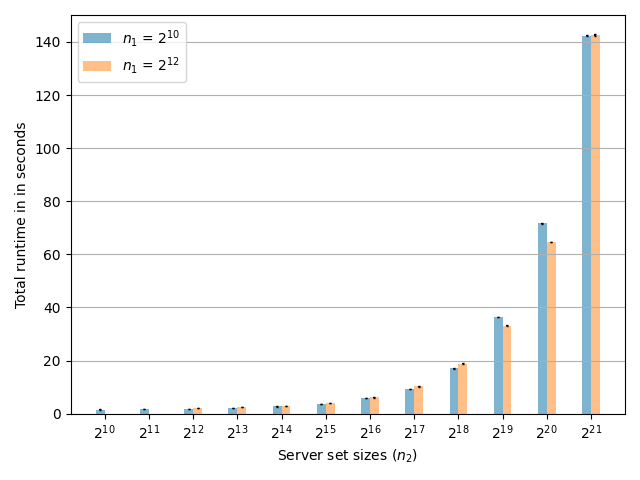
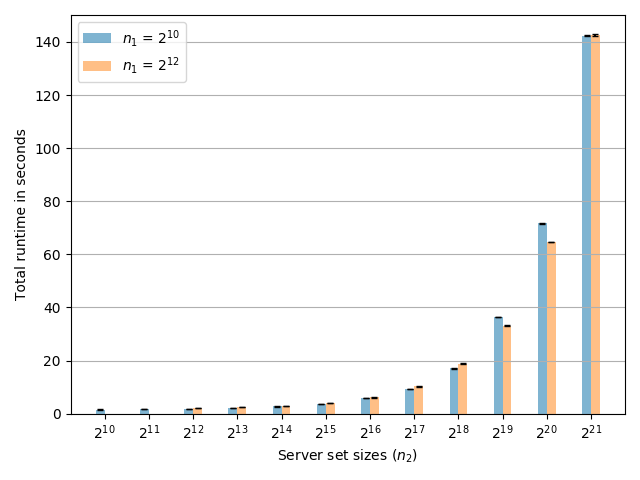
stuff

Changed region(s): [[0.0, 0.25, 0.0625, 0.625], [0.9062, 0.0625, 0.9375, 0.0938], [0.5625, 0.8125, 0.5938, 0.8438]]

diff --git a/plot_unbalanced.py b/plot_unbalanced.py
@@ -61,7 +61,7 @@ def plot_total_time(data):
     fig, ax = plt.subplots()
     client = ax.bar(x_pos, client_means, yerr=client_stds, color=tableau_c10[1], align='center', alpha=0.5,
            ecolor='black', capsize=5)
-    ax.set_ylabel(f"Total time in in seconds")
+    ax.set_ylabel(f"Total time in seconds")
     ax.set_xticks(x_pos)
     ax.set_xticklabels(xticks_to_potencies_label(set_sizes))
     ax.set_title(
@@ -89,13 +89,17 @@ def plot_total_time_combined(data10,data12):
     # client = ax.bar(x_pos, client_means, yerr=client_sd_10, color=tableau_c10[1], align='center', alpha=0.5,
     #                 ecolor='black', capsize=5)
     client_10 = ax.bar(x_pos_10-0.1, client_means_10, yerr=client_sd_10, width=0.2,
-                       color=tableau_c10[0], align='center', alpha=0.5, ecolor='black', capsize=1)
+                       color=tableau_c10[0], align='center', alpha=0.5, ecolor='black', capsize=2)
     client_12 = ax.bar(x_pos_12+0.1+2, client_means_12,yerr=client_sd_12, width=0.2,
-                       color=tableau_c10[1], align='center', alpha=0.5, ecolor='black', capsize=1)
+                       color=tableau_c10[1], align='center', alpha=0.5, ecolor='black', capsize=2)
 
-    ax.set_ylabel(f"Total runtime in in seconds")
+    ax.set_ylabel(f"Total runtime in seconds")
     ax.set_xticks(x_pos_10)
     ax.set_xticklabels(xticks_to_potencies_label(set_sizes_10))
+    # for i in range(1,len(client_means_10)):
+    #     print(client_means_10[i]/client_means_10[0])
+    # for i in range(1, len(client_means_12)):
+    #     print(client_means_12[i]/client_means_12[0])
     print(client_means_10)
     print(client_means_12)
     # ax.set_title(
@@ -153,8 +157,8 @@ def plot_total_data_stacked_combined(data10,data12):
     # client_r_stds = client_r_stds/1e9
     # client_s_stds = client_s_stds/1e9
 
-    print(client_r_means_10)
-    print(client_r_means_12)
+    print(client_r_means_10+client_s_means_10)
+    print(client_r_means_12+client_s_means_12)
     # Add a table at the bottom of the axes
     client_r_10 = ax.bar(x_pos_10-0.1, client_r_means_10, width=0.2,
                       color=tableau_c10[0], align='center', alpha=0.5)
@@ -517,9 +521,9 @@ def plot_psi_types_dt(data):
         data, "total_d_rs", rs='s', parameter='psi')
     client_means = client_means/1e3
     client_sd = client_sd/1e3
+    print(client_r_means[7]+client_s_means[7])
     client_r_means = client_r_means/1e6
     client_s_means = client_s_means/1e6
-
     x_pos = np.array(set_sizes)
     fig, ax1 = plt.subplots()
 
@@ -533,14 +537,14 @@ def plot_psi_types_dt(data):
     client_r = ax1.bar(x_pos-0.1, client_r_means,width=0.2, color=tableau_c10[0], align='center', alpha=0.5)
     client_s = ax1.bar(x_pos-0.1, client_s_means, width=0.2, color=tableau_c10[4], align='center', alpha=0.5, bottom=client_r_means)
     ax2 = ax1.twinx()
-    ax2.set_ylabel('runtime (seconds)', color=tableau_c10[7])
+    ax2.set_ylabel('Runtime (seconds)', color=tableau_c10[7])
     ax2.tick_params(axis='y', labelcolor=tableau_c10[7])
     # Add a table at the bottom of the axes
     client_t = ax2.bar(x_pos+0.1, client_means, yerr=client_sd, width=0.2, color=tableau_c10[7], align='center', alpha=0.5,
                        ecolor='black', capsize=2)
     ax1.legend((client_r[0], client_s[0], client_t[0]),
-               ('client received', 'client sent'))
-    ax2.legend(['runtime'], loc=9)
+               ('Client received', 'Client sent'))
+    ax2.legend(['Runtime'], loc=9)
 
     fig.autofmt_xdate()
     fig.tight_layout()
@@ -575,7 +579,7 @@ def table_psi_types_scaling_dt(data):
 
 
 def table_psi_types_phases_d(data):
-    table_data = [['Phase'],['OPRF'],['Polynomials'],['Circuit']]
+    table_data = [['Phase'],['OPRF'],['Polynomials'],['Circuit'],['Circuit (Online)']]
     for sn in [2**18,2**21]:
         for ft in [5, 7, 9]:
             for b in data:
@@ -584,15 +588,18 @@ def table_psi_types_phases_d(data):
                 else:
                     total_d = sum(b[0]['s_output']['total_d_rs'])
                     aby_d = sum(b[0]['s_output']['aby_total_d_rs'])
+                    aby_online_d = sum(b[0]['s_output']['aby_online_d_rs'])
                     oprf_d = sum(b[0]['s_output']['oprf_d_rs'])
                     poly_d = sum(b[0]['s_output']['poly_d_rs'])
                     aby_d_pct = float(aby_d/total_d)*100.0
                     oprf_d_pct = float(oprf_d/total_d)*100.0 
                     print("There is a bug for the oprf_d value for AB circuits. Manual fix: count the data twice for oprf_d")
                     poly_d_pct = float(poly_d/total_d)*100.0
-                    column_val = np.array([ft*1e6, oprf_d, poly_d, aby_d])
+                    aby_online_d_pct = float(aby_online_d/total_d)*100.0
+                    aby_online_aby_pct = float(aby_online_d/aby_d)*100.0
+                    column_val = np.array([ft*1e6, oprf_d, poly_d, aby_d, aby_online_d])
                     column_val = column_val/1e6
-                    column_pct = [ft, oprf_d_pct, poly_d_pct, aby_d_pct]
+                    column_pct = [ft, oprf_d_pct, poly_d_pct, aby_d_pct, aby_online_aby_pct]
                     for i in range(len(table_data)):
                         table_data[i].append(f"{column_val[i]:.1f} ({column_pct[i]:.2f}\%)")
                     

diff --git a/plot_network.py b/plot_network.py
@@ -59,13 +59,15 @@ def plot_total_time(datalan, datawan, datalte):
                         ecolor='black', capsize=2)
     client_lte = ax.bar(x_pos+0.4, client_means_lte, yerr=client_stds_lte, color=tableau_c10[2], align='center', alpha=0.5, width=0.3,
            ecolor='black', capsize=2)
-    print(f"LAN: {client_means_lan}")
-    print(f"WAN: {client_means_wan}")
-    print(f"LTE: {client_means_lte}")
-    print(f"LAN: {client_means_lan/client_means_lan}")
-    print(f"WAN: {client_means_wan/client_means_lan}")
-    print(f"LTE: {client_means_lte/client_means_lan}")
-    ax.set_ylabel(f"Total time in seconds")
+    # print(f"LAN: {client_means_lan}")
+    # print(f"WAN: {client_means_wan}")
+    # print(f"LTE: {client_means_lte}")
+    # print(f"LAN: {client_means_lan/client_means_lan}")
+    # print(f"WAN: {client_means_wan/client_means_lan}")
+    # print(f"LTE: {client_means_lte/client_means_lan}")
+    print(f"WAN-LAN: {client_means_wan-client_means_lan}")
+    print(f"LTE-LAN: {client_means_lte-client_means_lan}")
+    ax.set_ylabel(f"Total runtime in seconds")
     ax.set_xticks(x_pos)
     # ax.set_title(
     #     f"Client: Total time for Desktop-App with different networks.\nUnbalanced sets with client set size $2^{{{int(np.log2(datalan[0]['parameters']['client_neles']))}}}$ and the basic analytics circuit.\nMean over {len(datalan[0])-1} runs with std-error.")
